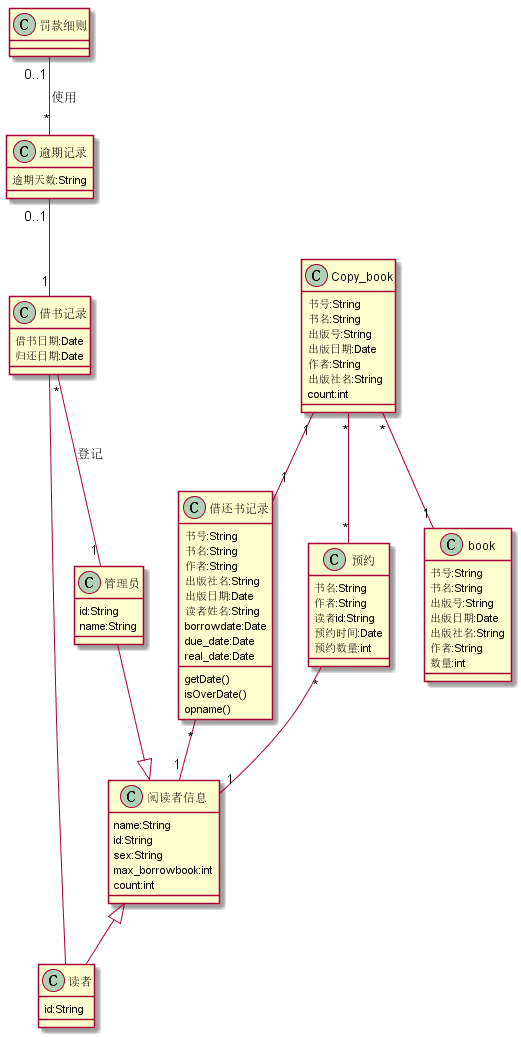
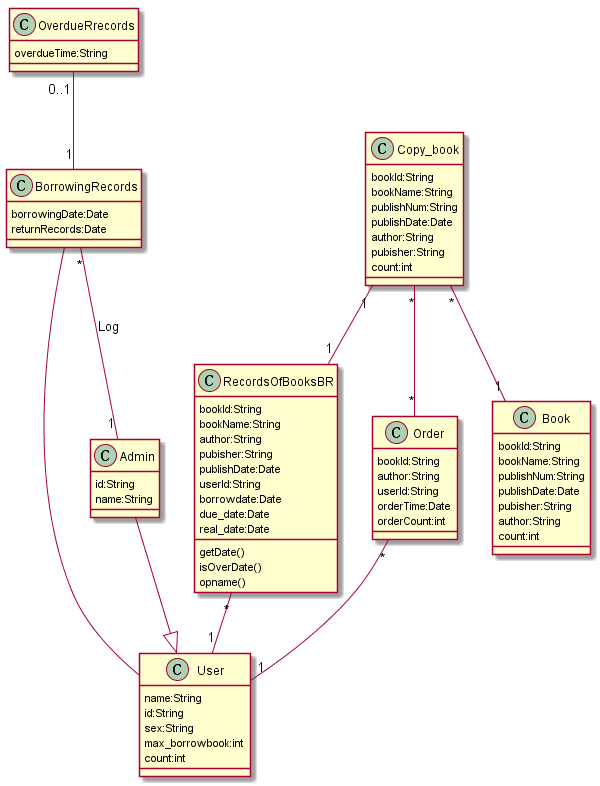
test3 changed

Changed region(s): [[0.0, 0.0, 1.0, 1.0], [0.4914, 0.7939, 0.5221, 0.8244]]

diff --git a/test3/README.md b/test3/README.md
@@ -7,60 +7,57 @@
 
 ### 1.1 类图PlantUML源码如下：
 
-``` @startuml
-阅读者信息<|--读者
-阅读者信息 :  name:String
-阅读者信息 :  id:String
-阅读者信息 :  sex:String
-阅读者信息 :  max_borrowbook:int
-阅读者信息 :  count:int
-读者 : id:String
-借书记录--读者
-借书记录 : 借书日期:Date
-借书记录 : 归还日期:Date
-逾期记录"0..1"--"1"借书记录
-逾期记录 : 逾期天数:String
-罚款细则"0..1"--"*"逾期记录 : "使用"
-借书记录"*"--"1"管理员 : "登记"
-管理员--|>阅读者信息
-管理员 : id:String
-管理员 : name:String
-借还书记录"*"--"1"阅读者信息
-借还书记录 : 书号:String
-借还书记录 : 书名:String
-借还书记录 : 作者:String
-借还书记录 : 出版社名:String
-借还书记录 : 出版日期:Date
-借还书记录 : 读者姓名:String
-借还书记录 : borrowdate:Date
-借还书记录 : due_date:Date
-借还书记录 : real_date:Date
-借还书记录 : getDate()
-借还书记录 : isOverDate()
-借还书记录 : opname()
-预约"*"--"1"阅读者信息
-预约 : 书名:String
-预约 : 作者:String
-预约 : 读者id:String
-预约 : 预约时间:Date
-预约 : 预约数量:int
-Copy_book"*"--"*"预约
-Copy_book : 书号:String
-Copy_book : 书名:String
-Copy_book : 出版号:String
-Copy_book : 出版日期:Date
-Copy_book : 作者:String
-Copy_book : 出版社名:String
+``` @startuml 
+User :  name:String
+User :  id:String
+User :  sex:String
+User :  max_borrowbook:int
+User :  count:int
+BorrowingRecords-- User
+BorrowingRecords : borrowingDate:Date
+BorrowingRecords : returnRecords:Date
+OverdueRrecords"0..1"--"1"BorrowingRecords
+OverdueRrecords : overdueTime:String
+BorrowingRecords"*"--"1"Admin : "Log"
+Admin--|>User
+Admin : id:String
+Admin : name:String
+RecordsOfBooksBR"*"--"1"User
+RecordsOfBooksBR : bookId:String
+RecordsOfBooksBR : bookName:String
+RecordsOfBooksBR : author:String
+RecordsOfBooksBR : pubisher:String
+RecordsOfBooksBR : publishDate:Date
+RecordsOfBooksBR : userId:String
+RecordsOfBooksBR : borrowdate:Date
+RecordsOfBooksBR : due_date:Date
+RecordsOfBooksBR : real_date:Date
+RecordsOfBooksBR : getDate()
+RecordsOfBooksBR : isOverDate()
+RecordsOfBooksBR : opname()
+Order"*"--"1"User
+Order : bookId:String
+Order : author:String
+Order : userId:String
+Order : orderTime:Date
+Order : orderCount:int
+Copy_book"*"--"*"Order
+Copy_book : bookId:String
+Copy_book : bookName:String
+Copy_book : publishNum:String
+Copy_book : publishDate:Date
+Copy_book : author:String
+Copy_book : pubisher:String
 Copy_book : count:int
-Copy_book"1"--"1"借还书记录
-Copy_book"*"--"1"book
-book : 书号:String
-book : 书名:String
-book : 出版号:String
-book : 出版日期:Date
-book : 出版社名:String
-book : 作者:String
-book : 数量:int
+Copy_book"1"--"1"RecordsOfBooksBR
+Copy_book"*"--"1"Book
+Book : bookId:String
+Book : bookName:String
+Book : publishNum:String
+Book : publishDate:Date
+Book : pubisher:String
+Book : author:String
+Book : count:int
 @enduml
 ```
 
@@ -69,6 +66,44 @@ book : 数量:int
 ![class](1.png)
 
 ### 1.3. 类图说明：
+Admin:管理员类
+
+User类:
+用户 :  name:String //姓名
+用户 :  ID:String //id
+用户 :  Sex:char  //性别
+用户 :  Max_borrowbook:int //最大借阅数
+用户 :  count:int   //借阅次数
+
+借还书记录:RecordsOfBooksBR
+RecordsOfBooksBR : bookId:String //书号
+RecordsOfBooksBR : bookName:String //书名
+RecordsOfBooksBR : author:String //作者
+RecordsOfBooksBR : pubisher:String //出版社名
+RecordsOfBooksBR : publishDate:Date //出版社名
+RecordsOfBooksBR : userId:String //用户ID
+RecordsOfBooksBR : borrowdate:Date //出版日期
+RecordsOfBooksBR : due_date:Date //预计归还
+RecordsOfBooksBR : real_date:Date //实际归回时间
+RecordsOfBooksBR : getDate() //获取日期
+RecordsOfBooksBR : isOverDate() //是否超时
+
+Order:预约
+Order : bookId:String //book的id
+Order : author:String //作者
+Order : userId:String //读者ID
+Order : orderTime:Date //预约时间
+Order : orderCount:int //预约数量
+
+Book:书
+Book : bookId:String //书号
+Book : bookName:String //书名
+Book : publishNum:String //出版号
+Book : publishDate:Date //出版日期
+Book : pubisher:String //出版社名
+Book : author:String //作者
+Book : count:int //数量
+
 主要的人员有用户和管理员，关系有借还书，预约等。
 管理员主要负责登记用户的各种信息。
 用户可以在系统上进行预约和借书等操作。
